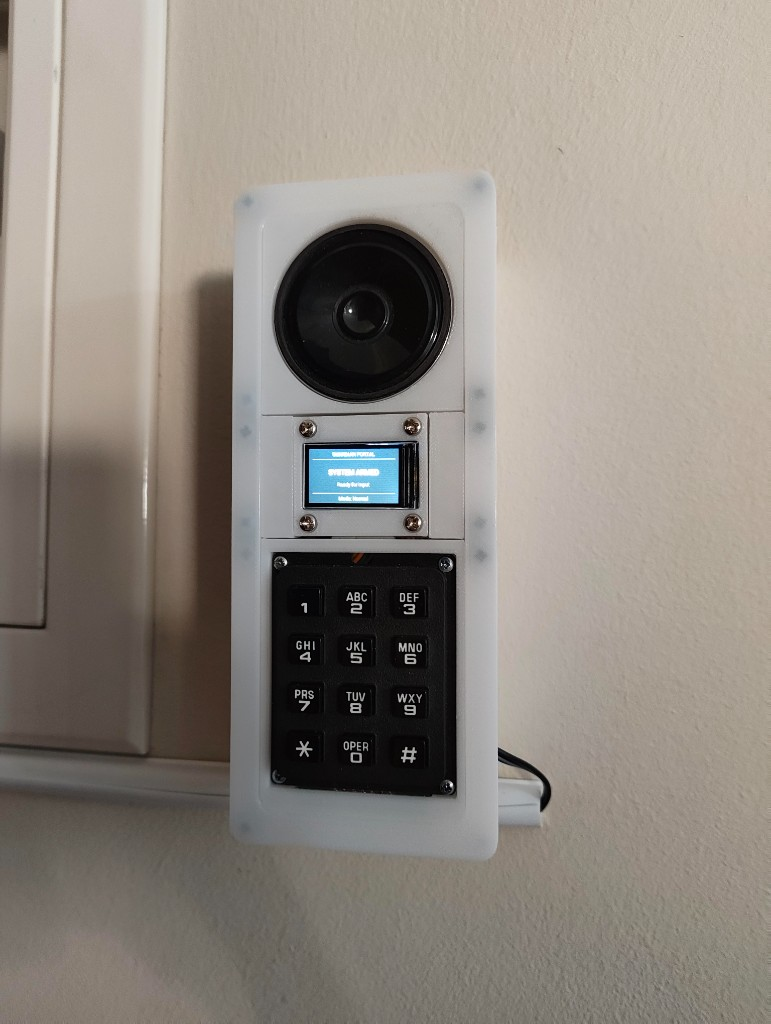
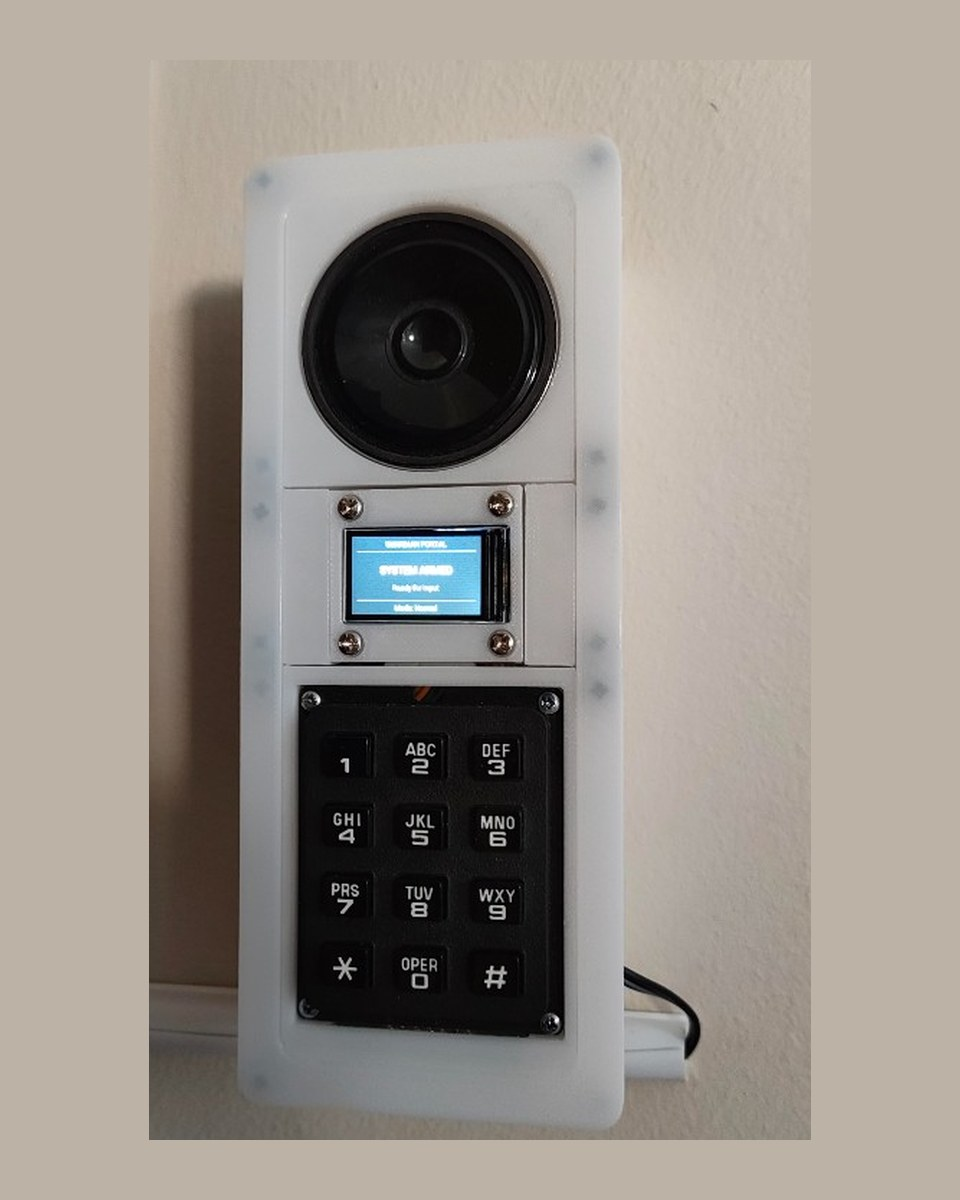
Crop README heroes to a matching 4:5 strip.
Tight frames on the portal and doorbell, same canvas for the lamp, and a three-column table so the photos line up.

diff --git a/README.md b/README.md
@@ -11,13 +11,23 @@ working system.
 > A burglar alarm that fails does so at the worst possible moment. Read the
 > caveats below before you run it. MIT, **as is, without warranty**.
 
-<p>
-<img src="docs/documentation/interior-portal/images/readme.jpg" alt="Interior portal mounted on the wall: speaker, display, and keypad" width="32%">
-<img src="docs/documentation/doorbell/images/readme.jpg" alt="Outdoor doorbell mounted on the wall: white housing with a bell mark" width="32%">
-<img src="docs/documentation/door-lamp-camera/images/01.jpg" alt="Finished door lamp and camera housing mounted on a wall" width="32%">
-</p>
+<table>
+  <tr>
+    <td align="center" valign="top" width="33%">
+      <img src="docs/documentation/interior-portal/images/readme.jpg" alt="Interior portal mounted on the wall" />
+      <br /><strong>Interior portal</strong>
+    </td>
+    <td align="center" valign="top" width="33%">
+      <img src="docs/documentation/doorbell/images/readme.jpg" alt="Outdoor doorbell mounted on the wall" />
+      <br /><strong>Doorbell</strong>
+    </td>
+    <td align="center" valign="top" width="33%">
+      <img src="docs/documentation/door-lamp-camera/images/readme.jpg" alt="Door lamp and camera housing" />
+      <br /><strong>Door lamp</strong>
+    </td>
+  </tr>
+</table>
 
-Interior portal · outdoor doorbell · door lamp with hidden camera.
 Step-by-step assembly with more photographs is in
 [`docs/documentation/`](docs/documentation/).
 
